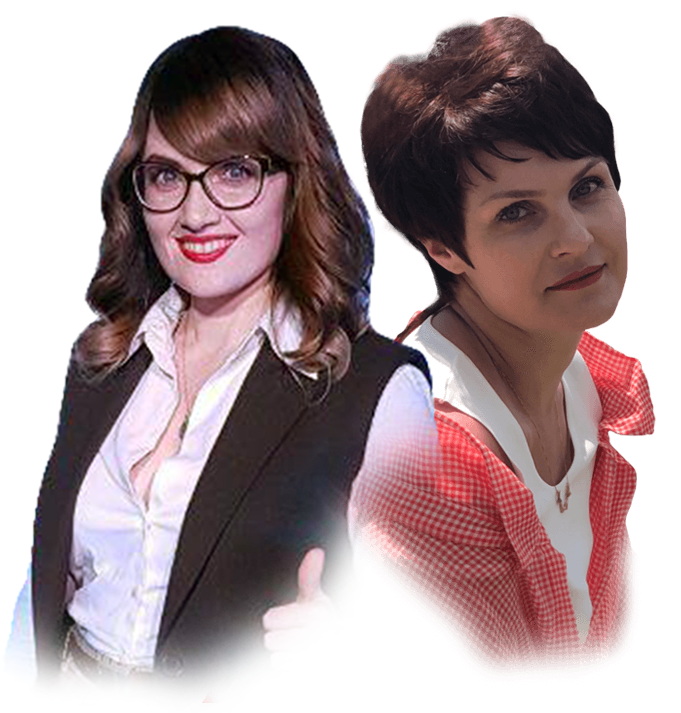
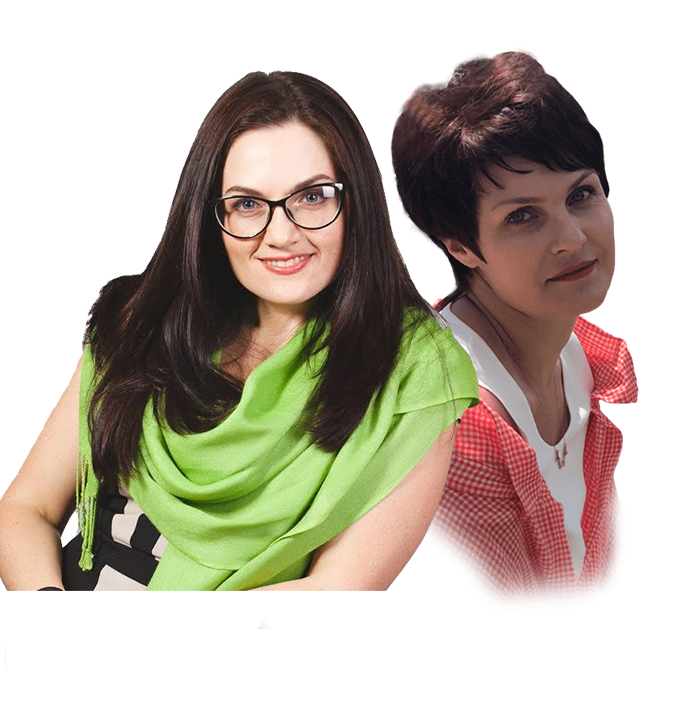
add new photo

diff --git a/scss/lift.scss b/scss/lift.scss
@@ -3284,7 +3284,7 @@ font-weight: bold;
 
     @media (min-width:768px) {
         .programm-item__image {
-            z-index: 2;
+            z-index: -1;
             max-width: none
         }
     }
@@ -3292,17 +3292,17 @@ font-weight: bold;
     @media (max-width:767px) {
         .programm-item__image_1 {
             top: 13%;
-            left: 9%;
-            width: 400px;
+            left: 16%;
+            width: 390px;
             max-width: none
         }
     }
 
     @media (min-width:768px) {
         .programm-item__image_1 {
-            top: -6%;
-            left: 15%;
-            width: 450px
+            top: 9%;
+            left: 48%;
+            width: 310px
         }
     }
 
@@ -3316,9 +3316,9 @@ font-weight: bold;
 
     @media (min-width:1200px) {
         .programm-item__image_1 {
-            top: -5%;
-            left: 17%;
-            width: 740px;
+            top: 12%;
+            left: 32%;
+            width: 560px;
             z-index: -1;
         }
     }

diff --git a/thanks/index_files/template.css b/thanks/index_files/template.css
@@ -4350,8 +4350,8 @@ p,
     padding-bottom: 200px;
   }
   .thanks-page .th-header .container::before {
-    width: 382px;
-    height: 521px;
+    width: 350px;
+    height: 430px;
   }
   .thanks-page .th-header .title-block .min-title.mtt-bot {
     padding: 10px 15px 10px 0;
